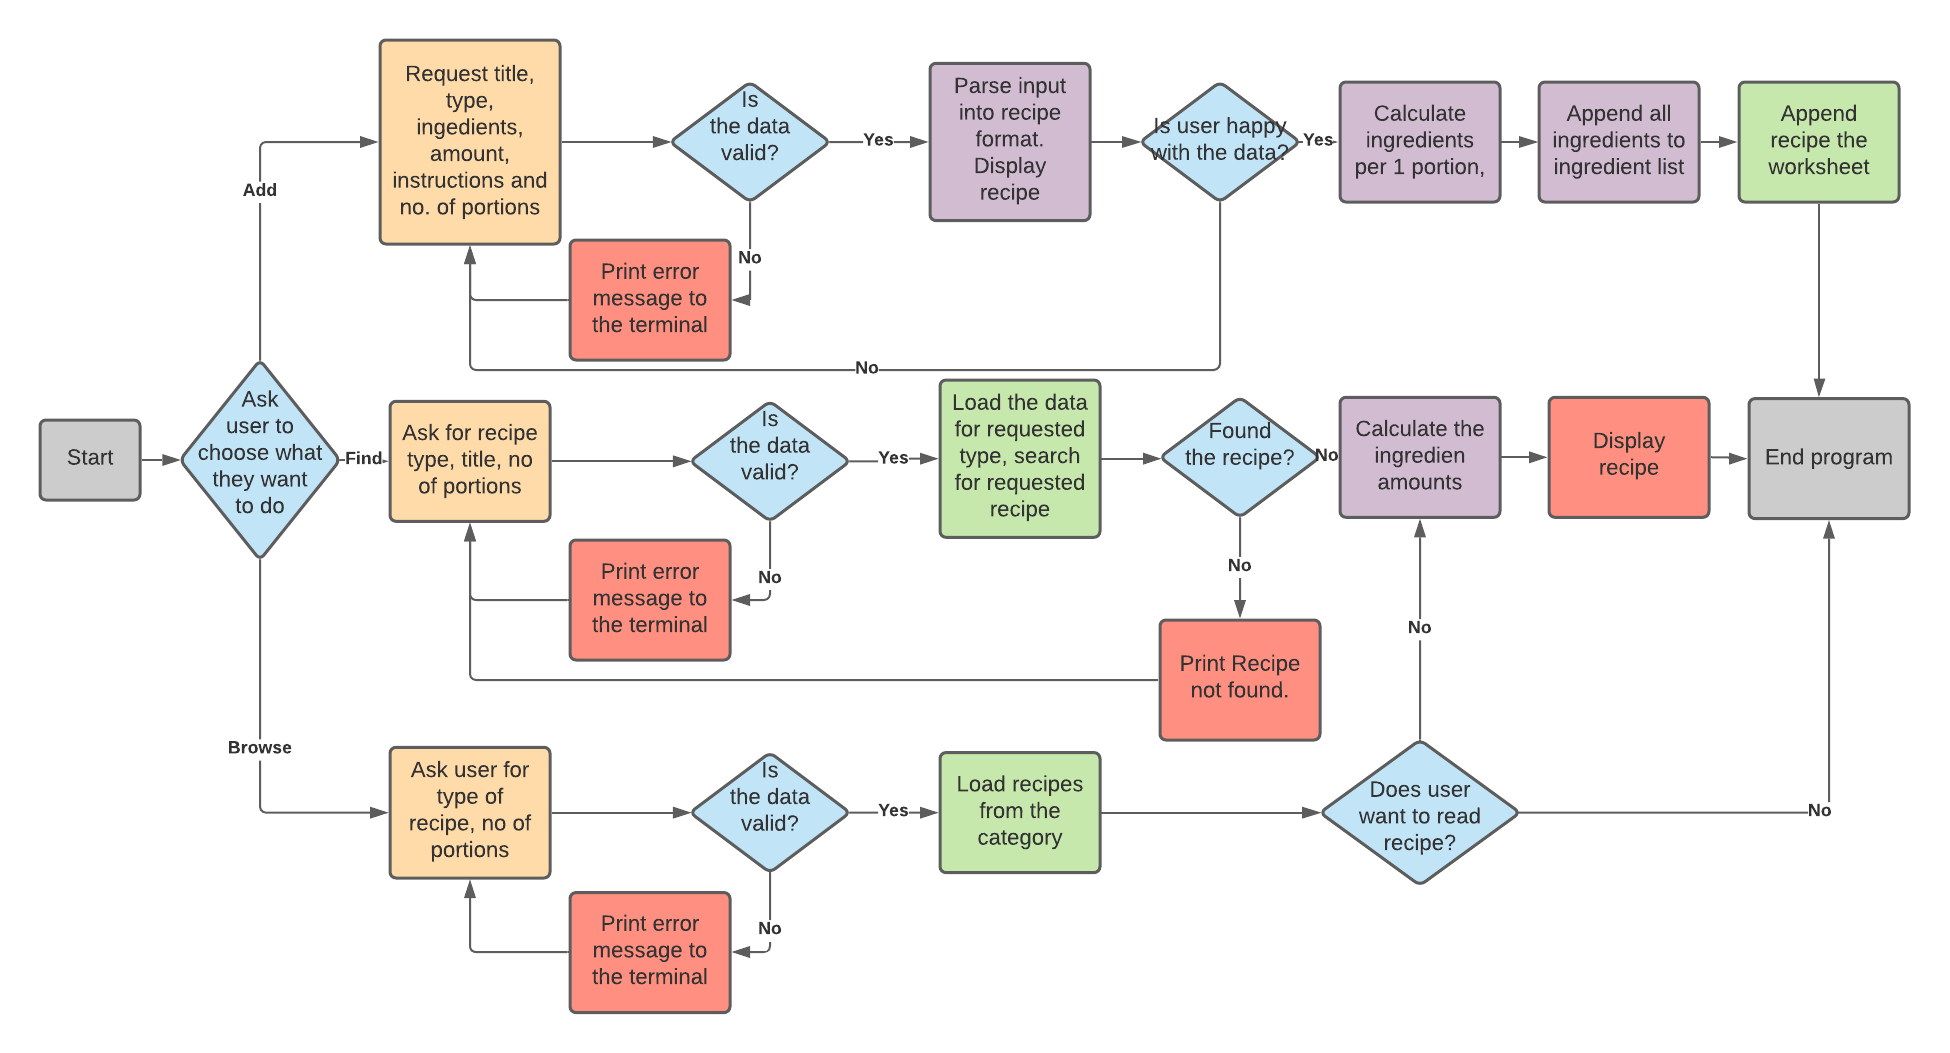
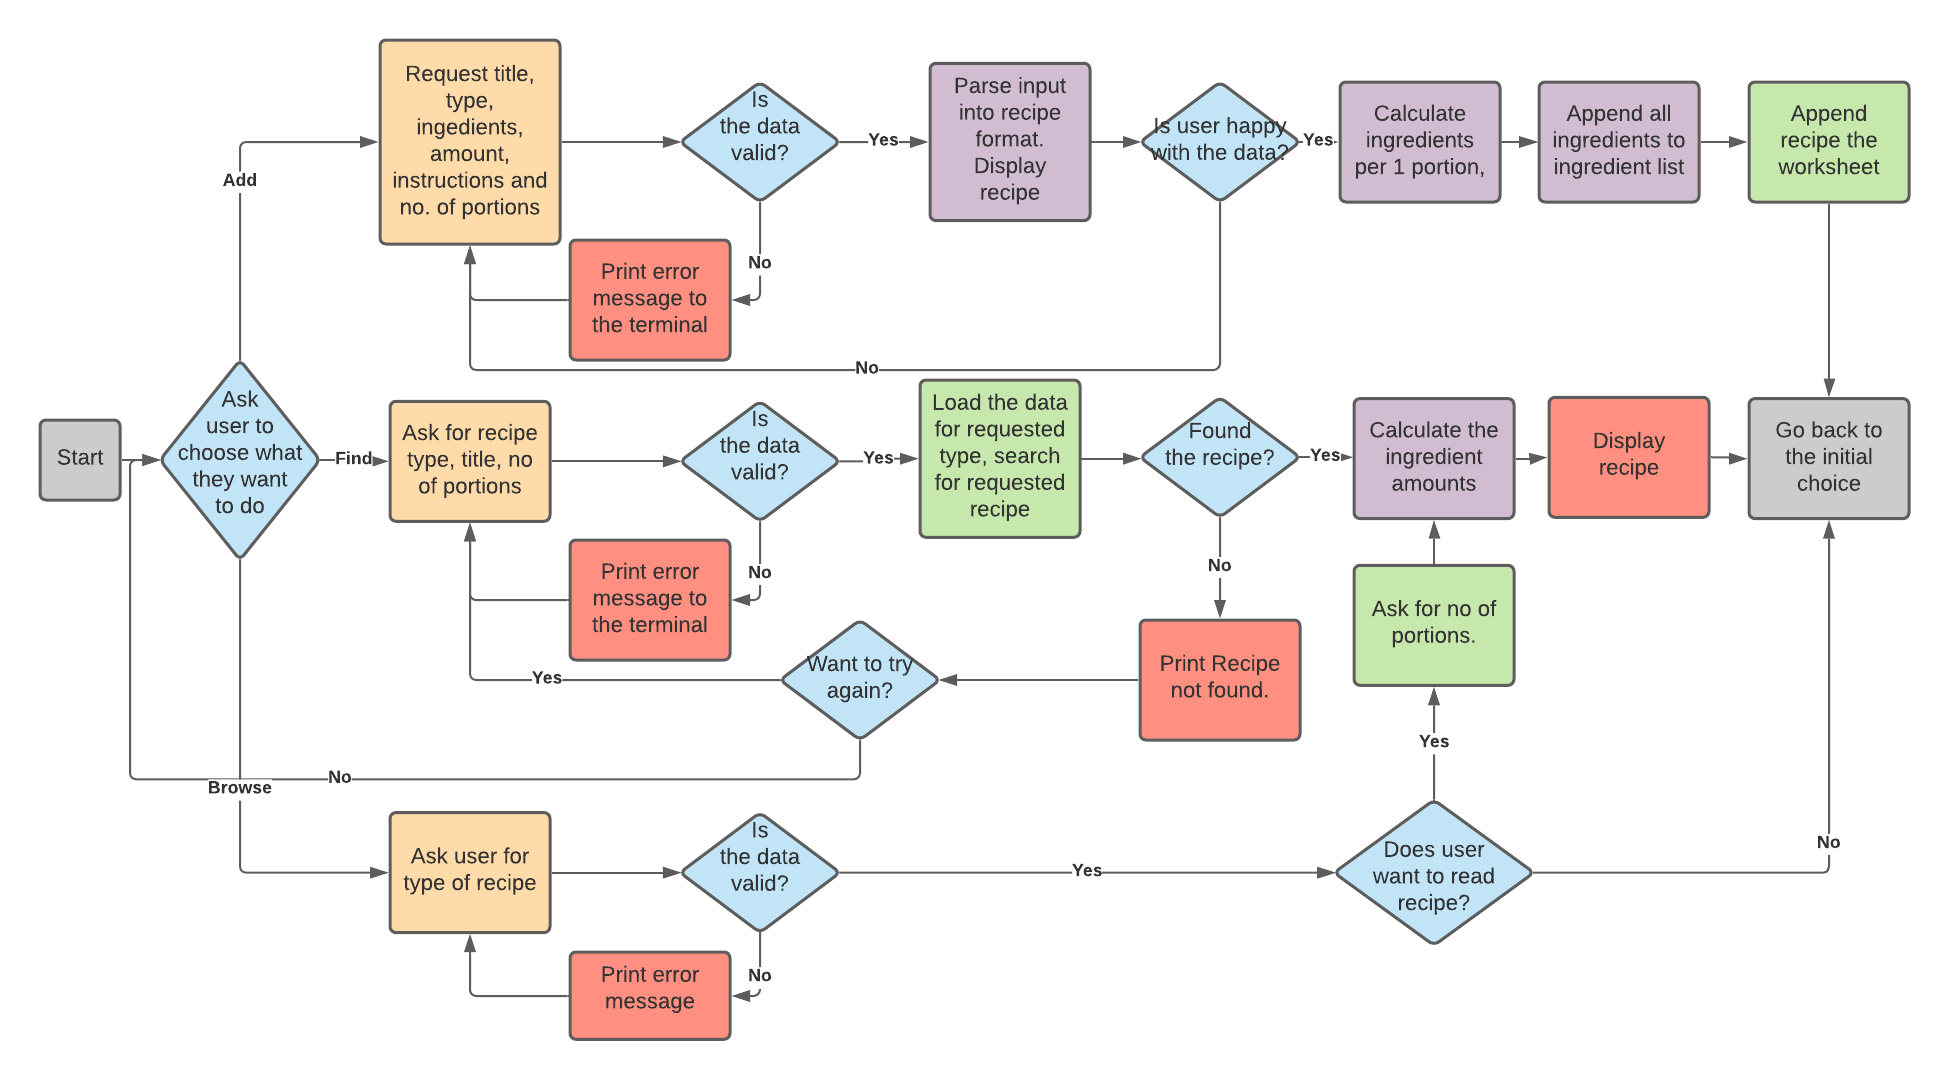
Update documentation with the testing info and changes

diff --git a/README.md b/README.md
@@ -1,37 +1,44 @@
 # Recipe book
 
-Recipe Book is an data automation aplication for amatour and proffessional cooks enabling storing, browsing and rescaling essencial recipes. The application oushes and pulls data from google sheets containing the recipe and recalculates the precipe proportions accordingly to demanded number of portions.
+Recipe Book is an data automation application for amateur and professional cooks enabling storing, browsing and rescaling essential recipes. The application pushes and pulls data from google sheets containing the recipe and recalculates the recipe proportions accordingly to demanded number of portions.
+
+![Recipe Book Mock-up](images/mockup.png)
+
+![Recipe Book life](https://recipe-book-by-joanna.herokuapp.com/)
+
+## Instructions
+
+Please follow the instructions in the terminal to add recipe, find recipe by name or browse through recipes in the Recipe Book if you need an inspiration or do not remember recipe's name.
 
 ## UX
 
 ###  Rationale
 
-* Storing and accessing recipes is vital for work in the kitchen.
+Storing and accessing recipes is vital for work in the kitchen.
 
-* Easy scaling of the recipes according to the number of portions allows avoidingmistakes in the kitchen.
+Easy scaling of the recipes according to the number of portions allows avoiding mistakes in the kitchen.
 
 ### Clients
 
-Recipe Book is designed for both for amatour and proffessional cooks who want to store and acces their recipes digitally.
+Recipe Book is designed for both amateur and professional cooks who want to store and access their recipes digitally.
 
 ### User stories
 
-* It happens to me very often that I attempt to do a double portion of a recipe and in the middle of the preparation forget to dubble the ingredients messign up theproportions. I need an easy way to scale up my recipes.
+* It happens to me very often that I attempt to do a double portion of a recipe and in the middle of the preparation forget to double the ingredients messing up the proportions. I need an easy way to scale up my recipes.
 
-* I need to store my recipes and be able to acces them without looking through many pages or a complicated search system.
+* I need to store my recipes and be able to access them without looking through many pages or a complicated search system.
 
 * Sometimes I want to bake something but don't know precisely what that should be. I want to be able to browse some ideas within one category. 
 
 ### Design
 
-Recipe Book is a terminal based application and therefore has a limited design options. 
-
+Recipe Book is a command-line interface application and therefore has a limited design options. 
 
 ### Flowchart
 
 ![Flowchart](images/RecipeBook.png)
 
-A flowchart was created to visualize the planned functions within the aplication.
+A flowchart was created to visualize the planned functions within the application.
 
 ## Features
 
@@ -41,19 +48,19 @@ A flowchart was created to visualize the planned functions within the aplication
 
 ![Start screen cont.](images/start2.PNG)
 
-A ASCII graphics showing a pot and decorative title were chosen for the front page to create positive user experiance. User is also offered a description of the aplication and guided through it by questions printed to the terminal.
+A ASCII graphics showing a pot and decorative title were chosen for the front page to create positive user experiance. After a short delay user is also offered a description of the application and guided through it by questions printed to the terminal. The delay was introduced to allow user seeing whole landing page before is pushed up.
 
 * Add recipe
 
 ![Add recipe](images/add.PNG)
 
-Add recipe allows adding new record to the Recipe Book. Program asks user to give the title, category, number of portions, ingredients (name, amount, unit) and instructions. The input is validated and user is asked to confirm the data before the entry is saved.
+Add recipe allows adding new record to the Recipe Book. Program asks user to give the title, category, number of portions, ingredients (name, amount, unit) and instructions. The input is validated and user is asked to confirm the data before the entry is saved to google spreadsheet.
 
 * Find recipe
 
 ![Find recipe](images/find.PNG)
 
-Find recipe allows searchong through selected category and request displaying a recipe with given name. If the name is misspelled or recipe is not found user can re-enter the recipe to ook for.
+Find recipe allows searching through selected category and request displaying a recipe with given name. If the name is misspelled or recipe is not found user can re-enter the recipe to ook for.
 
 * Browse
 
@@ -63,43 +70,93 @@ Find recipe allows searchong through selected category and request displaying a 
 
 The browse option allows to display list of recipes within a chosen category. User can choose between the recipes in the list and print them to the terminal.
 
+### Future features
+
+Future features could include:
+
+* filtering recipies by publication date or ingredients
+
+* adding more categories
+
+* handle duplicated recipes
+
+## Data Model
+
+User input is structured with help of Recipe class. The class parse numeric data into intiger (portions) or float (amounts). 
+
+The class contains methods to verify the data and parse it into strings and save by pushing into cells in google worksheet. The worksheet contains three spreadsheets named with corresponding category names.
+
 ## Testing
 
-### Checking against [PEP8 requirements](http://pep8online.com/)
+### Testing against user stories
+
+* It happens to me very often that I attempt to do a double portion of a recipe and in the middle of the preparation forget to double the ingredients messing up the proportions. I need an easy way to scale up my recipes.
+
+    * Program reads the recipe rescaled to according to the number of portions user declare.
+
+* I need to store my recipes and be able to access them without looking through many pages or a complicated search system.
+
+    * Applications offers the possibility to add a recipe as well to acces stored recipes. To read saved recipes user can search for recipe by name or browse all recipes within chosen category.
+
+* Sometimes I want to bake something but don't know precisely what that should be. I want to be able to browse some ideas within one category. 
+
+    *  The application allows user to browse recipes by displaying list of titles of the recipes to the terminal and allowing the user to selct recipes to be loaded.
+
+### Validator testing [PEP8 requirements](http://pep8online.com/)
 
 [x] too long lines and all were resolved
 [x] trailing white spaces removed
-[] trailing whitespaces in lines 442 and 443 within ASCII graphics remained to preserve graphics
+[ ] trailing whitespaces in lines 442 and 443 were not removed to preserve proper display of the ASCII graphics
+
 
 ### Manual testing
 
-Manual testing included entering correct and wrong values to the code to check program response. Encountered bugs listed below.
+All transitions between consecutive states were tested with respect to the state diagram.
+
+[x] Dead-end end point were identified after executing selected function and when finding recipe was impossible. Problems were eliminated by returnig user to the initial choice of functions. 
+
+[x] The application was tested against possible user input:
+
+    *  expected input
+    *  different font sizes
+    *  special characters
+    *  empty strings
+
+    Were missing validation was added or improved.
+
+[ ] Duplication of the recipes is possible. 
+
+    Removing this possibility could be beneficial for future versions. In current version oldest (top in the spreadsheet) recipe will be displayed if requested within find function.
+
 
 #### Encountered bugs
 
 [x] Extra ';' character in ingredient list
 
-Problem: Empty ingredient created upon loading the recipe due to ';' at the end of ingredient list. 
-Solution: The last character is removed before saving the recipe.
+    * Problem: Empty ingredient created upon loading the recipe due to ';' at the end of ingredient list. 
+    * Solution: The last character is removed before saving the recipe.
 
 [x] Program breaks when entering new choice at second attempt
 
-Problem: 'verify_users_choice' is not defined erroe. The choice is not updated when new value is entered, as the returned is not returned to the value 
-Solution: As it is the first input, simpliest solution is to call the show_command() and restat the choice
+    * Problem: 'verify_users_choice' is not defined error. The choice is not updated when new value is entered, as the returned is not returned to the value 
+    * Solution: As it is the first input, simplest solution is to call the show_command() and restart the choice
 
 [x] Program breaks at second attempt of entering new category within find function
 
-Problem: validate_category takes new imput but does not return the value
-Solution: Return validate_category(category) from the validate_category after getting new input.
+    * Problem: validate_category takes new input but does not return the value
+    * Solution: Return validate_category(category) from the validate_category after getting new input.
 
 [x] Program breaks at second attempt of entering new recipe within find function
 
-Problem: function takes new imput but does not return the value
-Solution: The function was re-writen, get_recipe(category) was returned from the look_for_recipe after getting new input.
+    * Problem: function takes new input but does not return the value
+    * Solution: The function was re-writen, get_recipe(category) was returned from the look_for_recipe after getting new input.  
+
 
 ## Deployment
 
-The site was deployed to Heroku. The steps to deploy are as follows:
+The site was deployed using Code Institute's mock terminal to Heroku. 
+
+The steps to deploy are:
 
 1. Add requirements for Heroku in the gitpod, commit and push to github.
 2. Go to Heroku dashboard and click Add New App.
@@ -107,7 +164,7 @@ The site was deployed to Heroku. The steps to deploy are as follows:
 4. Adjust settings in the settings tab:
 * Create Config Var keys with value of the content of creds.json
 * Add buildpacks by clicking on the add buildpack button and selecting heroku/python and heroku/nodejs follows by save buildpack.
-5. Go to the deploy tab. Select Github as the diploy method. Select depository RecipeBook and click serach. Connect the repositiory with heroku.
+5. Go to the deploy tab. Select Github as the diploy method. Select repository RecipeBook and click searach. Connect the repositiory with heroku.
 6. Deploy manually to look through deploy logs.
 
 The live link can be found here - [Recipe Book Page](https://recipe-book-by-joanna.herokuapp.com/)
